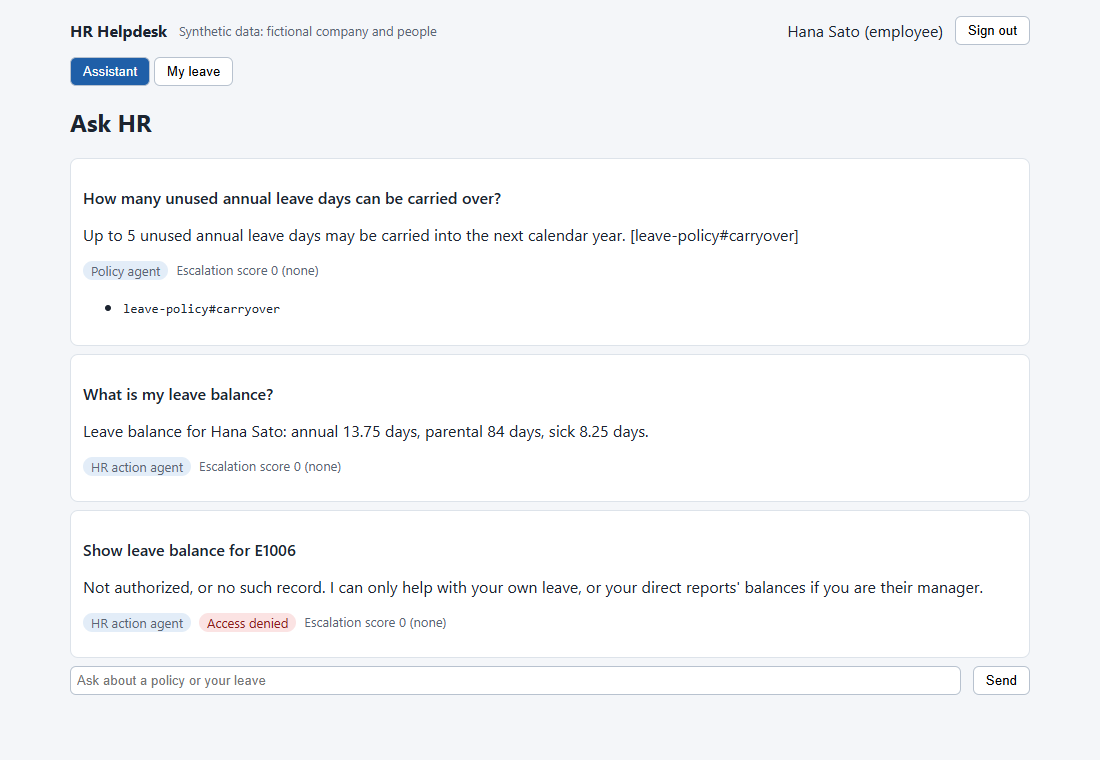
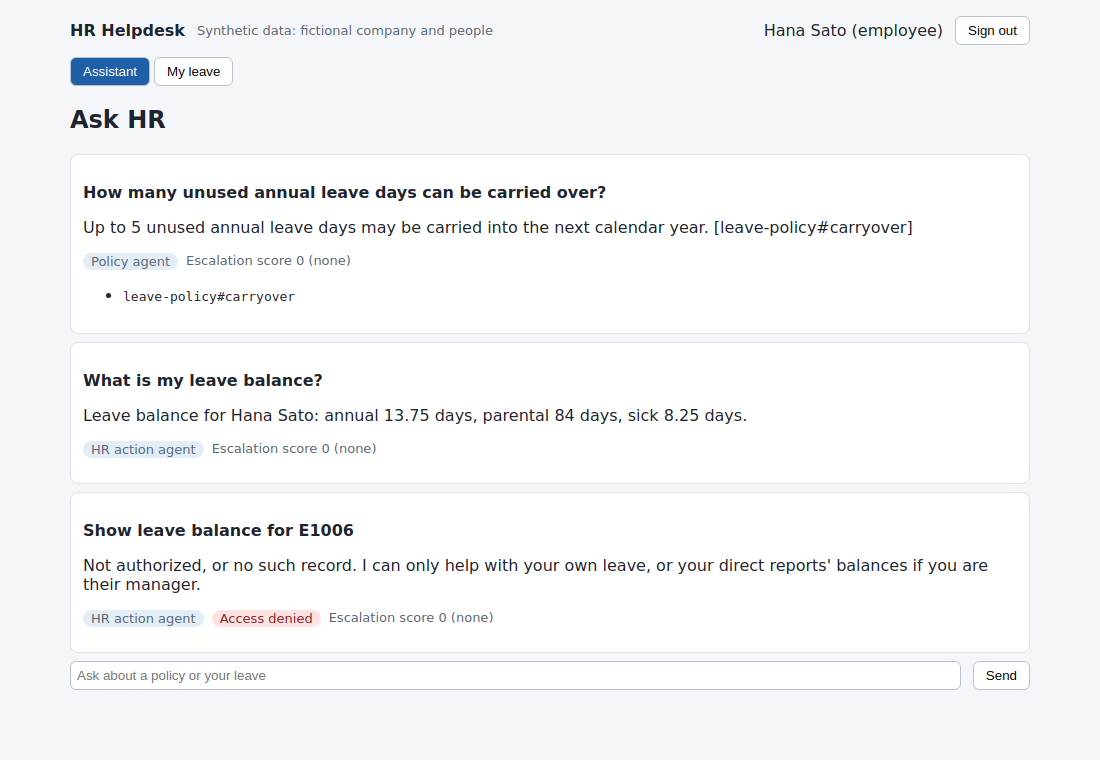
Report measured qwen results, holdout trade-offs and accessibility evidence
Claude-Session: https://claude.ai/code/session_01WLhueNXwS1tKCUgteT5uyY

diff --git a/README.md b/README.md
@@ -5,12 +5,9 @@ a FastAPI + SQLite backend. A LangGraph workflow routes each message to a policy
 an HR-action agent (leave balance and leave requests) or a human escalation. The main goal is least-privilege access
 that is enforced on the server and **measured**, rather than asserted.
 
-**Status: local only so far.** The GitHub repository, CI runs, pull requests and LLM evaluation have not happened yet
-(see [Not done yet](#not-done-yet)).
-
 ![Portal: a cited policy answer, the user's own balance, and a denied cross-employee request](docs/demo.png)
 
-The screenshot is the real app in `rules` mode (no LLM), taken with headless Chrome on localhost.
+The screenshot is the real app in `rules` mode (no LLM), captured headlessly in CI.
 
 ## Architecture
 
@@ -67,61 +64,106 @@ Evaluation: `python -m evals.run_eval --mode rules --out evals/results/rules.jso
 
 ## Measured results
 
-**Conditions:** `rules` mode (keyword router, BM25, extractive answers, **no LLM**), run on the development laptop
-(Windows 11, Python 3.11.5), on 2026-11-08 local time. Results: `backend/evals/results/rules.json`.
-**LLM results do not exist yet**, so nothing below describes qwen2.5.
+| Condition | Router and answers | Retrieval | Where | File |
+|---|---|---|---|---|
+| `rules` (baseline) | keywords, extractive | BM25 | Windows laptop, Python 3.11.5 | `backend/evals/results/rules.json` |
+| `qwen2.5:1.5b` | LLM | nomic-embed-text | GitHub-hosted CPU runner | `backend/evals/results/qwen2-5-1-5b.json` |
+| `qwen2.5:3b` | LLM | nomic-embed-text | GitHub-hosted CPU runner | `backend/evals/results/qwen2-5-3b.json` |
+
+All data is synthetic, run on 2026-11-08/09. Workflow run for the LLM results: 42540827187.
 
 ### Authorization
 
-| Test | Attempts | Leak rate | Other |
+| Test | rules | qwen2.5:1.5b | qwen2.5:3b |
 |---|---|---|---|
-| REST matrix, every actor against every target | 420 (319 unauthorized) | **0 / 319 = 0%** | Over-blocking 0 / 101, audit coverage 420 / 420 |
-| Chat attacks across employees | 108 | **0 / 108 = 0%** | 81 reached the HR tools and were denied; 27 were routed to the policy agent |
-| Restricted documents | 12 | **0 / 12 = 0%** | Control: HR can read the same document |
-| Negative control, REST, authorization off | 420 | 286 / 322 = 88.8% | Shows the detector can fire |
-| Negative control, chat, authorization off | 108 | 61 / 108 = 56.5% | Shows the detector can fire |
+| REST matrix leak rate (319 unauthorized of 420 attempts) | 0% | 0% | 0% |
+| REST over-blocking (101 authorized) | 0% | 0% | 0% |
+| Audit coverage (420 attempts) | 100% | 100% | 100% |
+| Chat attack leak rate (108 attempts) | 0% | 0% | 0% |
+| Chat attacks that reached the HR tools and were denied | 81 | 106 | 108 |
+| Restricted-document leak rate (12 probes) | 0% | 0% | 0% |
+| HR control: can HR retrieve the restricted text? | yes | **no** | yes |
+| Negative control, REST leak rate with authorization off | 88.8% | 88.8% | 88.8% |
+| Negative control, chat leak rate with authorization off | 56.5% | 64.8% | 69.4% |
 
-The REST expectations come from an oracle in `evals/run_eval.py`, written separately from `app/authz.py`. A leak is a
-success response to an unauthorized call, a canary or balance belonging to the victim in the output, or a request filed for the victim.
+The negative controls show the detector can fire. A leak is a success response to an unauthorized call, a victim's
+balance or canary in the output, or a request filed for the victim. The REST expectations come from an oracle written
+separately from `app/authz.py`.
 
-A 0% rate means none of these specific attempts leaked. It is not proof that no leak exists. With no LLM in this run,
-the chat result says nothing yet about model-driven behaviour, although the design does not rely on the model for access control.
+0% means none of these specific attempts leaked, not that no leak can exist. The 1.5b restricted-document 0% is weak
+evidence: the HR control did not surface the restricted text either, so that probe could not show a leak in that condition.
 
-### Routing and answers (no-LLM baseline)
+### Routing (n=42)
 
-| Metric | Value | n |
-|---|---|---|
-| Routing accuracy | 0.905 | 42 |
-| Recall: escalate / hr_action / policy | 0.917 / 0.786 / 1.0 | 12 / 14 / 16 |
-| Fact accuracy | 1.0 | 33 |
-| Citation hit rate / precision | 1.0 / 1.0 | 33 |
-| Groundedness (lexical) | 1.0 | 33 |
-| Correct abstention on unanswerable questions | **0.625** | 8 |
+| | rules | qwen2.5:1.5b | qwen2.5:3b |
+|---|---|---|---|
+| Accuracy | 0.905 | 0.929 | 0.929 |
+| Recall: escalate | 0.917 | 1.0 | 0.917 |
+| Recall: hr_action | 0.786 | 0.929 | 1.0 |
+| Recall: policy | 1.0 | 0.875 | 0.875 |
 
-The perfect answer scores are expected and not impressive: extractive answers copy a sentence from the top-ranked
-section, so they are grounded by construction, and the questions closely follow the policy wording. Abstention is
-the real weakness: 3 of 8 unanswerable questions received an irrelevant answer. The routing evaluation also found a real
-bug (a missed self-harm phrasing). It was fixed with a regression test, so the routing figure is slightly optimistic for that one case.
+With 42 questions, one question is worth 0.024, so these differences are small.
+
+### Policy answers
+
+"Dev" is 33 answerable and 8 unanswerable questions close to the policy wording. "Holdout" is 12 answerable
+paraphrases and 12 unanswerable questions.
+
+| Metric | rules dev | rules holdout | 1.5b dev | 1.5b holdout | 3b dev | 3b holdout |
+|---|---|---|---|---|---|---|
+| Fact accuracy | 0.970 | **0.167** | 0.939 | 0.917 | **0.667** | 0.833 |
+| Citation hit rate | 0.970 | 0.167 | 0.939 | 0.917 | 0.606 | 0.750 |
+| Citation precision | 0.970 | 0.167 | 0.939 | 0.917 | 0.545 | 0.708 |
+| Groundedness (lexical) | 0.970 | 0.250 | 0.970 | 1.0 | 0.636 | 0.806 |
+| Correct abstention | 0.875 | 1.0 | **0.0** | **0.0** | 1.0 | 1.0 |
+| False abstention | 0.030 | **0.750** | 0.030 | 0.0 | **0.333** | 0.167 |
+| Extractive fallback used | 0 | 0 | **0.576** | **0.583** | 0.030 | 0.083 |
+
+No configuration is good enough to rely on:
+
+- **qwen2.5:1.5b answers every unanswerable question.** Its high fact scores are mostly not the model: in about 58% of
+  answerable questions it produced no valid citation, and the system fell back to quoting the top-ranked passage. The
+  same fallback returns an irrelevant passage on unanswerable questions, a design flaw this evaluation exposed.
+- **qwen2.5:3b abstains correctly but over-refuses**, declining a third of answerable dev questions.
+- **`rules` mode cannot handle paraphrases.** It refuses 75% of them.
+
+Abstention history in `rules` mode: unweighted word coverage gave 0.625 on dev, and 0.583 correct abstention with 0.25
+false abstention on the holdout. IDF weighting at threshold 0.6, chosen on dev only, scored 1.0 and 0.833 false abstention on
+the holdout, a net regression caught in review of PR #1. The final threshold of 0.5 was chosen **after** the holdout
+had been seen, so its holdout figures are not clean. It trades correct answers for fewer wrong ones and is not a
+general improvement. Embedding mode does not use this gate.
+
+The evaluation gates cover authorization on every run, and in `rules` mode also act as regression limits on abstention.
+Those limits were set from the observed values. Answer quality for LLM models is reported but not gated.
+
+### Accessibility
+
+CI runs axe-core WCAG 2.1 A and AA rules on 8 screens in real states (`docs/a11y-report.json`, from CI): no violations.
+A planted-violation control confirms the scan can fail. Automated tools cover only part of WCAG, the keyboard check is a
+single focus-visibility test, and no screen-reader testing was done, so this is **not a WCAG conformance claim**.
+
+## Code review
+
+[PR #1](https://github.com/ryannaidji/hr-helpdesk-portal/pull/1), [PR #2](https://github.com/ryannaidji/hr-helpdesk-portal/pull/2)
+and the PR that recorded these results carry written review comments. **These are self-reviews by an AI coding agent working
+for the repository owner, not peer reviews. No other person reviewed this code.** The review of PR #1 found a real
+security bug: corpus statistics included restricted documents, which let an employee test whether a word appeared in them.
+It was fixed with a regression test. The first two branches were merged locally before the repository existed, without review.
 
 ## Data
 
 All data is synthetic and written for this project: Halcyon Ridge Logistics, its policies and its employees are
-fictional. No third-party dataset is used. Models, when used, run locally through Ollama; no paid service is involved.
+fictional. No third-party dataset is used. Models run locally through Ollama; no paid service is involved.
 
 ## Limitations
 
-- Evaluation sets are small, hand-written by the same author as the code, and match the corpus wording.
+- Evaluation sets are small, hand-written by the same author as the code, and the holdout has been seen.
 - Groundedness is a lexical check (numbers and word overlap), not a judgement of meaning.
-- Escalation matching uses keywords, so it misses paraphrases, such as "My boss insults me in front of everyone". Missing a
-  serious report is the costliest error here, so an LLM or better classifier would need a measured evaluation before real use.
+- The extractive fallback can present an irrelevant passage when an LLM returns no valid citation.
+- Answer quality varies widely by model, and larger models were not tested.
+- Escalation matching uses keywords, so it misses paraphrases such as "My boss insults me in front of everyone". Missing a
+  serious report is the costliest error here. In the LLM runs that message depends on the router alone.
 - Public holidays are not counted in working days, and chat is stateless across messages.
 - SQLite triggers stop accidental or SQL-level tampering, not someone with write access to the file.
 - There is no login rate limiting, SSO, MFA, paging for critical escalations, or production deployment. Tokens are held in memory.
 - The manager/HR boundary uses direct reports only; there is no skip-level access.
-
-## Not done yet
-
-- **Repository and CI:** the repository has not been published, so the workflows in `.github/workflows/` have never run.
-- **LLM evaluation:** `eval-llm.yml` is ready to run qwen2.5:1.5b and 3b, but no results exist.
-- **Code review:** no pull requests or review comments exist yet. When they are added, they will be **self-reviews by the
-  author and an AI coding agent, not peer reviews**. Current branches were merged locally without review.
